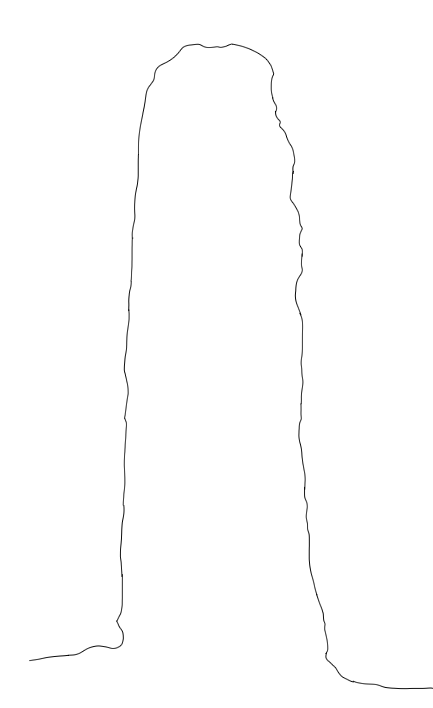
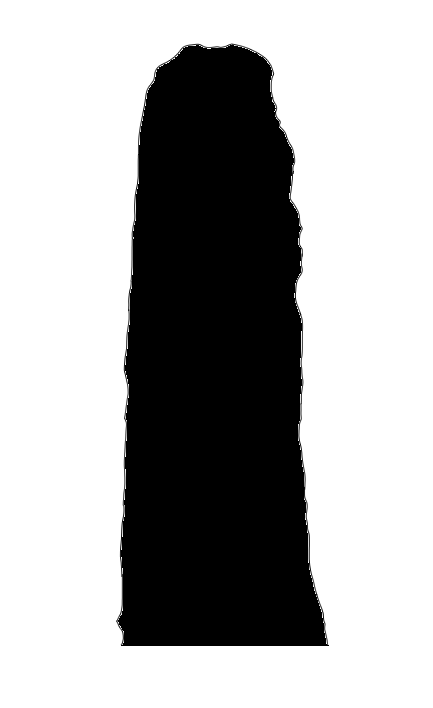
changed to box-based

diff --git a/cbPDMS_geometryWorkup.py b/cbPDMS_geometryWorkup.py
@@ -1,0 +1,27 @@
+import cv2
+import numpy as np
+import matplotlib.pyplot as plt
+
+# Load the image
+image_path = "carved_edges_solo.png"
+image = cv2.imread(image_path, cv2.IMREAD_GRAYSCALE)
+
+# Threshold the image
+_, thresh = cv2.threshold(image, 200, 255, cv2.THRESH_BINARY_INV)
+
+# Find contours
+contours, _ = cv2.findContours(thresh, cv2.RETR_EXTERNAL, cv2.CHAIN_APPROX_SIMPLE)
+
+# Find the rectangle enclosing the largest contour
+largest_contour = max(contours, key=cv2.contourArea)
+rect = cv2.minAreaRect(largest_contour)
+
+# Draw the rectangle
+box = cv2.boxPoints(rect)
+box = np.int0(box)
+image_with_rect = cv2.cvtColor(image.copy(), cv2.COLOR_GRAY2BGR)
+cv2.drawContours(image_with_rect, [box], 0, (255, 0, 0), 2)
+
+# Display the image with the fitted rectangle
+plt.imshow(cv2.cvtColor(image_with_rect, cv2.COLOR_BGR2RGB))
+plt.show()
